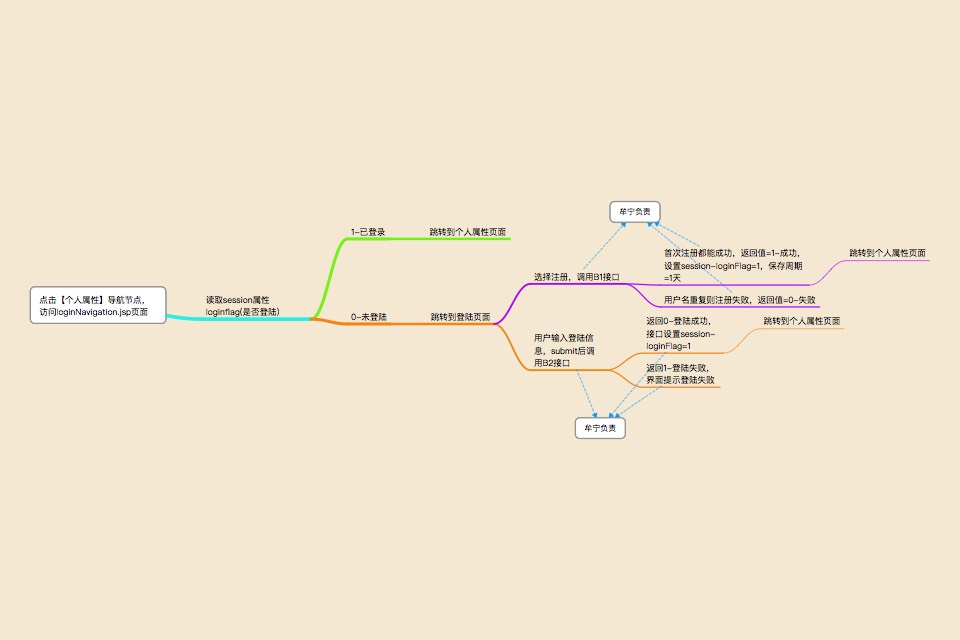
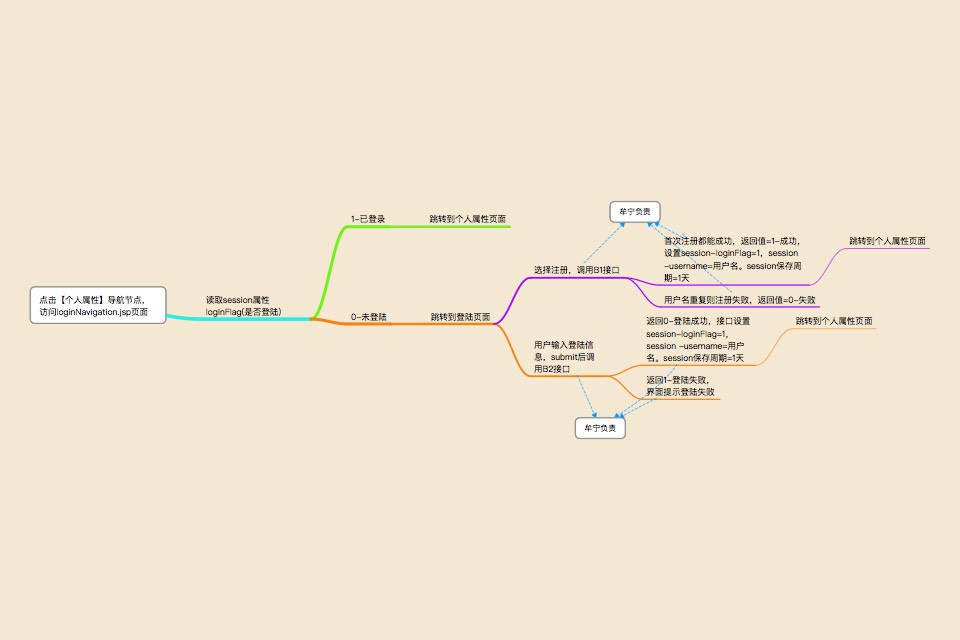
1、加入注册功能，登录判断

diff --git a/js/login.js b/js/login.js
@@ -2,41 +2,34 @@
  * created by kfzx-qiusd 2016-03-02
  * 
  */
-
-
-var departmentlist = document.getElementById("departmentlist");
-departmentlist.addEventListener('click', selectDepartment, false);
-
 var submitinput = document.getElementById("submitinput");
 submitinput.addEventListener('click', submitCheck, false);
 
-//实现点击部门list后更新部门button的文字
-function selectDepartment(event) {
-	var selectedlist = event.target; // 获取点击目标
-	document.getElementById("mydepartment").innerHTML = selectedlist.innerHTML;
-	document.getElementById("mydepartment").setAttribute('tag', selectedlist.innerHTML);
+var reginput = document.getElementById("reginput");
+reginput.addEventListener('click', goRegister, false);
+// 跳转到注册页面
+function goRegister() {
+	document.location.href = '../pages/register.html';
 }
 
 //提交时检查合法性
 function submitCheck(event) {
-	var userdepartment = document.getElementById("mydepartment").getAttribute('tag');
 	var username = document.getElementById("nameinput").value;
 	var userpassword = document.getElementById("passwordinput").value;
-	if (userdepartment == "选择部门") {
-		alert("请选择部门！");
-	} else if (username == "") {
+	if (username == "") {
 		alert("请输入用户名!");
 	} else if (userpassword == "") {
 		alert("请输入密码!");
 	} else {
 		//调用B1-登录接口---牟宁;
-		LoginPost(userdepartment,username,userpassword);
+		LoginPost(username, userpassword);
 	}
 }
 
+
 // ajax的post方法:
-// login的post方法，调用B1接口
-function LoginPost(deparment,name,password) {
+// login的post方法，调用B2接口
+function LoginPost(name, password) {
 	$.ajax({
 		//提交数据的类型 POST GET
 		type: "POST",
@@ -44,7 +37,6 @@ function LoginPost(deparment,name,password) {
 		url: "http://localhost:8080/FootBallWebSite/LoginServlet",
 		//提交的数据
 		data: {
-			deparment: deparment,
 			name: name,
 			password: password
 		},
@@ -59,12 +51,16 @@ function LoginPost(deparment,name,password) {
 			//$("#msg").html(decodeURI(data));
 		},
 		//调用执行后调用的函数
-		complete: function(XMLHttpRequest, textStatus) {			
-			alert(XMLHttpRequest.responseText); //XMLHttpRequest.responseText是返回的信息，用这个来放JSON数据
+		complete: function(XMLHttpRequest, textStatus) {
+			//alert(XMLHttpRequest.responseText); //XMLHttpRequest.responseText是返回的信息，用这个来放JSON数据
 			try {
 				var jsonObject = JSON.parse(XMLHttpRequest.responseText);
 				for (var key in jsonObject) {
-					alert("属性=" + key + "\n值=" + jsonObject[key]);
+					if (key == "speed") {
+						if (jsonObject[key] == "90") {						
+							document.location.href = '../pages/myabbs.html';
+						}
+					}
 				}
 			} catch (e) {
 				alert("返回信息=>" + XMLHttpRequest.responseText + "\n=>无法转换为JSON");

diff --git a/js/register.js b/js/register.js
@@ -30,13 +30,13 @@ function submitCheck(event) {
 		alert("请输入密码!");
 	} else {
 		//调用B1-注册接口---牟宁;		
-		var result = confirm("您的注册信息为:\n\n用户名："+username+"\n密码："+userpassword+"\n部门："+userdepartment+"\n\n用户名不要写错噢!")
+		var result = confirm("您的注册信息为:\n\n用户名：" + username + "\n密码：" + userpassword + "\n部门：" + userdepartment + "\n\n用户名不要写错噢!")
 		if (result) {
-			RegisterPost(userdepartment,username,userpassword);
+			RegisterPost(userdepartment, username, userpassword);
 		} else {
 			alert("取消了，请重新确认");
 		}
-		
+
 	}
 }
 
@@ -44,11 +44,11 @@ function submitCheck(event) {
 
 // ajax的post方法:
 // Register的post方法，调用B1接口
-function RegisterPost(deparment,name,password) {
+function RegisterPost(deparment, name, password) {
 	$.ajax({
 		//提交数据的类型 POST GET
 		type: "POST",
-		//提交的网址
+		//提交的网址--改为调用B1接口
 		url: "http://localhost:8080/FootBallWebSite/RegisterServlet",
 		//提交的数据
 		data: {
@@ -67,14 +67,22 @@ function RegisterPost(deparment,name,password) {
 			//$("#msg").html(decodeURI(data));
 		},
 		//调用执行后调用的函数
-		complete: function(XMLHttpRequest, textStatus) {			
-//			alert(XMLHttpRequest.responseText); //XMLHttpRequest.responseText是返回的信息，用这个来放JSON数据
+		complete: function(XMLHttpRequest, textStatus) {
+			//			alert(XMLHttpRequest.responseText); //XMLHttpRequest.responseText是返回的信息，用这个来放JSON数据
 			try {
 				var jsonObject = JSON.parse(XMLHttpRequest.responseText);
 				for (var key in jsonObject) {
 					alert("属性=" + key + "\n值=" + jsonObject[key]);
+					if (key == "retcode") {
+						if (jsonObject[key] == "0") {
+//							console.log("注册成功，跳转到个人属性页面"); // 跳转时 							
+							document.location.href='../pages/myabbs.html';
+						}
+					}
 				}
+
 			} catch (e) {
+				e.message;
 				alert("返回信息=>" + XMLHttpRequest.responseText + "\n=>无法转换为JSON");
 			}
 		},

diff --git a/pages/login.html b/pages/login.html
@@ -25,24 +25,6 @@
 				<!--标题-->
 				<div id="logintitle">Login</div>
 				<form role="form" method="post" target="postTo">
-					<!--选择部门-->
-					<div class="btn-group" id="department">
-						<button type="button" class="btn btn-default dropdown-toggle btn-block" data-toggle="dropdown" id="mydepartment" tag="选择部门">
-							选择部门 <span class="caret"></span>
-
-						</button>
-						<ul class="dropdown-menu" role="menu" id="departmentlist">
-							<li><a href="#">广州测试部</a></li>
-							<li><a href="#">广州研发支持部</a></li>
-							<li><a href="#">广州海外支持部</a></li>
-							<li><a href="#">广州开发一部</a></li>
-							<li><a href="#">广州开发二部</a></li>
-							<li><a href="#">广州开发三部</a></li>
-							<li><a href="#">广州开发四部</a></li>
-							<li><a href="#">广州行政部</a></li>
-							<li><a href="#">其他基地部门</a></li>
-						</ul>
-					</div>
 					<!--用户名-->
 					<div class="form-group" id="username">
 						<input type="text" class="form-control" id="nameinput" placeholder="Username">
@@ -51,8 +33,11 @@
 					<div class="form-group" id="password">
 						<input type="password" class="form-control" id="passwordinput" placeholder="Passowrd">
 					</div>
+					<div id="resgisterbtn">
+						<button type="submit" class="btn btn-success btn-block" id="reginput">注册</button>
+					</div>
 					<div id="loginbtn">
-						<button type="submit" class="btn btn-primary btn-block" id="submitinput">Let me in.</button>
+						<button type="submit" class="btn btn-primary btn-block" id="submitinput">登录</button>
 					</div>
 				</form>
 				<iframe name="postTo" style="display:none"></iframe>

diff --git a/css/login.css b/css/login.css
@@ -38,20 +38,6 @@
     font-size: 25px;
     color: white;
 }
-#department {
-    float: left;
-    border: 2px solid rgb(51,122,183);
-    width: 200px;
-    height: 38px;
-    margin-top: 13px;
-    margin-left: 120px;
-    text-align: center;
-    
-}
-
-#departmentlist {
-	width:200px;
-}
 
 #username {
     float: left;
@@ -75,13 +61,23 @@
     
 }
 
-#loginbtn {
+#resgisterbtn {
     float: left;
     border: 2px solid rgb(51,122,183);
-    width: 200px;
+    width: 95px;
     height: 38px;
     margin-top: 1px;
     margin-left: 120px;
+    text-align: center;    
+}
+
+#loginbtn {
+    float: left;
+    border: 2px solid rgb(51,122,183);
+    width: 95px;
+    height: 38px;
+    margin-top: 1px;
+    margin-left: 10px;
     text-align: center;    
 }
 

diff --git a/pages/index.html b/pages/index.html
@@ -1,7 +1,7 @@
 <!-- /***************************
 *
 *   作者：qiusd
-*  	时间：2016-03-26
+*  	时间：2016-02-26
 *   	描述：
 *   1、index.html是主页面
 *   2、导航按钮会将其他页面加载到index.html的<div class="middleDiv" id="middleDivDes"> 

diff --git a/js/index.js b/js/index.js
@@ -10,6 +10,9 @@ function navSelect(event) {
     iframeRefresh(pageUrl);
 }
 
+
+
+
 function iframeRefresh(pageUrl) {
 	var iframe = document.getElementById('middleFrameID');	
 	iframe.setAttribute('src', pageUrl);
